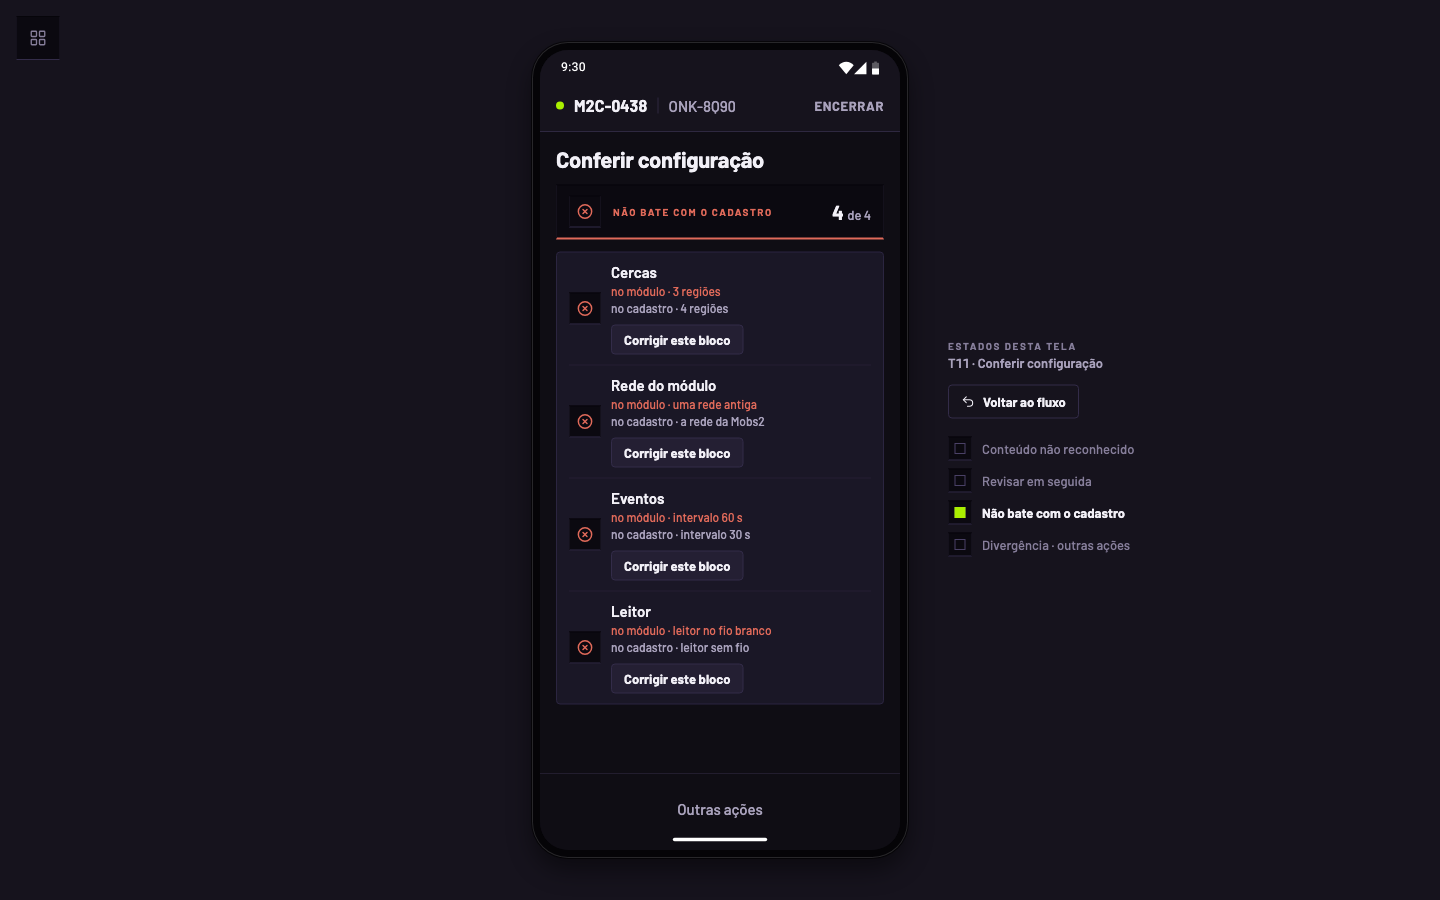
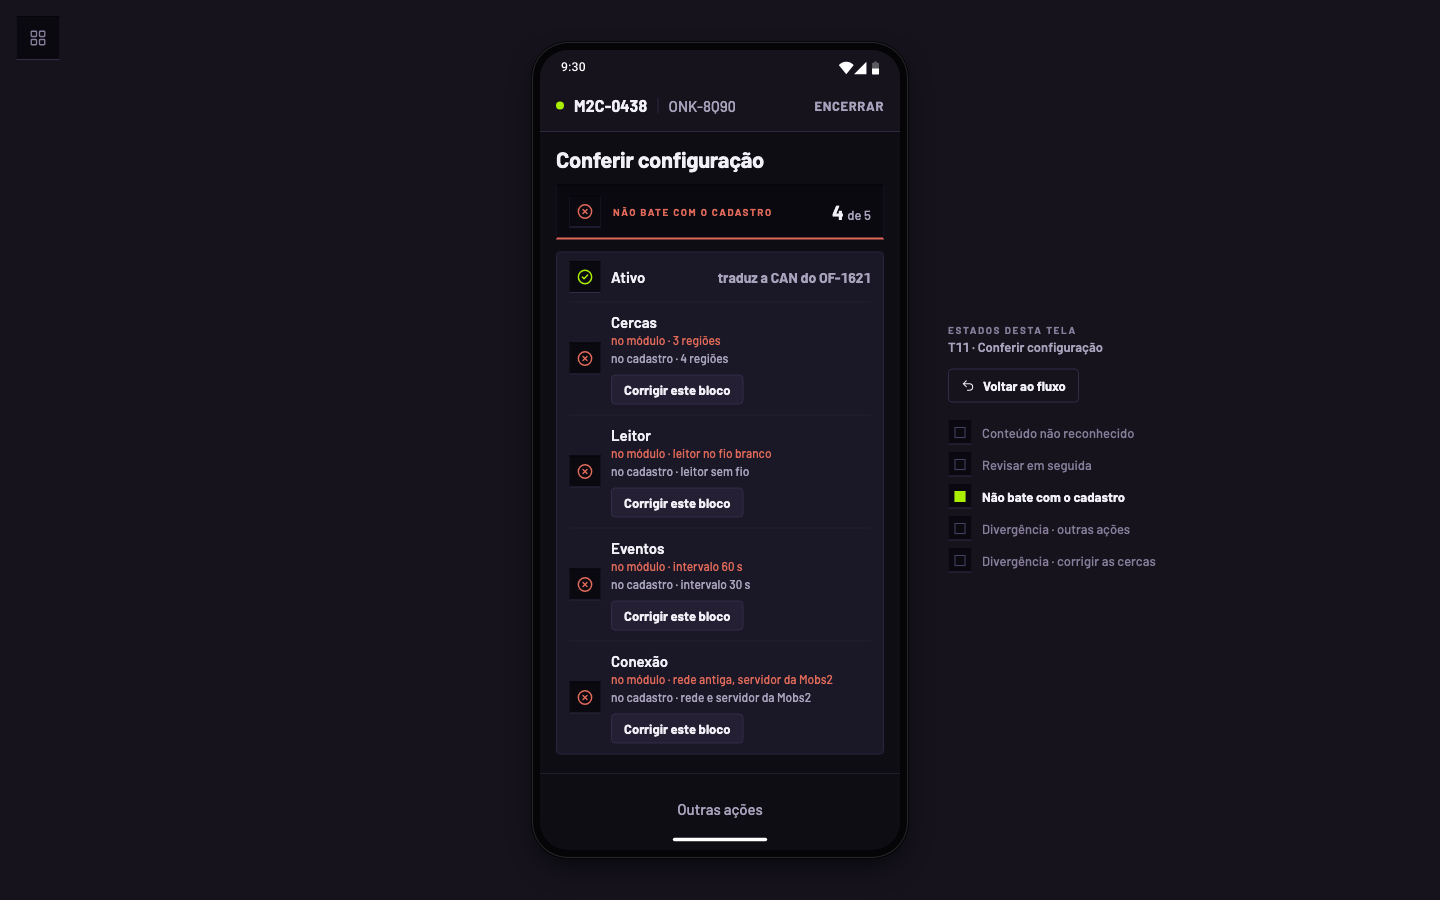
o Sem módulo na coluna do menu

Changed region(s): [[0.4062, 0.28, 0.5625, 0.84], [0.6562, 0.3422, 0.7812, 0.6533], [0.5, 0.28, 0.5938, 0.3111]]

diff --git a/06-prototipo/app/src/telas/T04/index.jsx b/06-prototipo/app/src/telas/T04/index.jsx
@@ -64,6 +64,8 @@ function ajusteDoMomento(momento, unico, est) {
 function sessaoDoEstado(sessao, est) {
   // no print, o 08 e o 14 abrem sobre o menu sem sessão, como a referência desenha (09/10)
   if (EM_QUADRO && (est === REF.envio || est === REF.empresa)) return null
+  // a consulta parada *Sem módulo* da coluna (o diretor, 13/10): o menu antes de conectar, sem sessão
+  if (est === REF.semModulo) return null
   const precisa = est === REF.falha || est === REF.checklist || est === REF.trocar || est === REF.semConexao
   const base = precisa && !sessao?.ativoId ? HEROI : sessao
   return est === REF.falha && M.casos['link-perdido'] ? { ...base, saude: 'falha' } : base

diff --git a/06-prototipo/palco.md b/06-prototipo/palco.md
@@ -27,7 +27,7 @@ A tela aberta aparece marcada. As folhas não entram no painel: são momentos da
 ## A coluna
 
 - lista **os estados e as consultas paradas** da tela aberta · os momentos do fluxo só entram quando o índice declara acesso pela coluna
-- **quem entra na coluna é o campo `coluna` do `indice.json`**: os estados entram por padrão, e `coluna: false` os retira; uma tela ou um momento entra com `coluna: true`. As três folhas de trocar da T04 (08, 09 e 14) ficam fora. A coluna da T04 mostra 4 dos 7
+- **quem entra na coluna é o campo `coluna` do `indice.json`**: os estados entram por padrão, e `coluna: false` os retira; uma tela ou um momento entra com `coluna: true`. As três folhas de trocar da T04 (08, 09 e 14) ficam fora. A coluna da T04 mostra o *Sem módulo* (o menu antes de conectar, sem sessão de configuração: um momento do fluxo que a coluna abre parado, desde 13/10 · pelo link, ele continua vivo) e 5 dos 8 estados
 - **as consultas sem família ficam abaixo dos estados**, na ordem do índice: na T11, *Não bate com o cadastro* reutiliza a `00-tela`; na T09, *Manutenção · escolher o bloco*, *Manutenção · reenviando* e *Manutenção · concluída* reutilizam os momentos `08`, `09` e `10`. Todos abrem o próprio app parado e sem toque, como os estados · a `00` continua sendo referência de tela e os três quadros continuam sendo momentos: o acesso pela coluna não muda os tipos nem as contagens do design
 - **a T11 escolhida no painel abre a conferência normal**, no par do herói (M2C-0417 + RKT-8H42), que chega a *Tudo confere*. A divergência do M2C-0438 + ONK-8Q90 fica na consulta *Não bate com o cadastro*, sem criar caminho alternativo no palco
 - **a mesma regra vale no painel e no endereço simples da T02 e da T10**: as três empresas do técnico e o ônibus sem calibração são as entradas normais. Os quadros de uma empresa (T02/00–01) e do caminhão (T10/00, 01, 05–09) ficam abaixo dos estados, parados. A T11/03, a folha do exemplo divergente, também é consulta parada. A T13/29, *Alimentação · relendo*, entra recuada na família do item reprovado e não liga o relógio.

diff --git a/CHANGELOG.md b/CHANGELOG.md
@@ -1,5 +1,11 @@
 # Registro de mudanças
 
+## 2026-10-13 · o *Sem módulo* na coluna do menu
+
+- **A coluna *Estados desta tela* da T04 abre o *Sem módulo*** (o diretor, 13/10): o menu antes de conectar, sem sessão de configuração, que só se via passando pelo login · entra em primeiro e abre parado, como todo quadro da coluna (o toque faz o *Voltar ao fluxo* piscar, e ele devolve o menu de antes) · pelo link do momento, o menu continua vivo, com o aviso do acesso · no `indice.json`, o `01-momento-sem-modulo` com `coluna` e `rotulo` (sem `consulta`, que é só dos cenários especiais); na T04, a sessão desse quadro é nenhuma.
+- **O teste das consultas** (`testar-consultas.mjs`) aprovado, com os 22 quadros · uma conferência dele estava velha desde o pacote 29: esperava *4 de 4* na consulta da T11, que tem cinco blocos desde então (*4 de 5*) · corrigida.
+- **Desvio nomeado:** as cenas 01 e 00 do palco desenham a coluna do menu com os 5 estados de antes · com o *Sem módulo*, a peça da coluna passa de 0,89% a 3,17% (cena 01) e de 2,4–2,7% a 4,3–5,1% (cena 00), até o arquiteto redesenhá-las.
+
 ## 2026-10-13 · pacote 33: o tracejado do vazio
 
 - **O pacote do arquiteto:** 62 arquivos de referência (os pares de 30 telas e das folhas 4 e 8) entraram inteiros. O `tokens.css`, o `tokens.json`, o catálogo e o CHANGELOG vieram de cópias antigas: entraram só o comentário novo do `--borda-neutra` e a linha *tracejado do vazio* no catálogo. A entrada do CHANGELOG do pacote está resumida aqui.

diff --git a/08-para-o-dev/testes-prontos.md b/08-para-o-dev/testes-prontos.md
@@ -19,7 +19,7 @@ Existem **45 arquivos** em [scripts/caminhos](../06-prototipo/app/scripts/caminh
 | `conferencia.mjs` | **100 passos aprovados** naquele ciclo: fechar a folha por quatro caminhos, registrar, reenviar e inspecionar as consultas bloqueadas. |
 | `mov-t11.mjs`, `mov-t10.mjs` | **132 e 78 passos aprovados**, respectivamente, naquele ciclo. |
 | `familias.mjs` | **28 passos aprovados** naquele ciclo, conferindo a organização e os acessos da coluna. |
-| [testar-consultas.mjs](../06-prototipo/app/scripts/testar-consultas.mjs) | Aprova 15 consultas pela coluna e URL, inércia após toque/Esc/tempo, cinco retornos e três entradas normais do painel. |
+| [testar-consultas.mjs](../06-prototipo/app/scripts/testar-consultas.mjs) | Aprova as consultas paradas pela coluna e URL (22 quadros), inércia após toque/Esc/tempo, cinco retornos e três entradas normais do painel. |
 | `portas.mjs`, `abortada.mjs`, `lembrar.mjs`, `recuperar.mjs`, `mov-<tela>.mjs` e os demais | Cenários reutilizáveis, com resultados de suas rodadas nos gates. Não têm aceite coletivo na versão atual apenas por estarem nesta pasta. |
 
 A evidência dessa rodada está no [gate de consultas paradas](../06-prototipo/para-o-arquiteto/gate-consultas-paradas.md). A documentação e o retorno do login têm a validação registrada no [gate da recuperação](../06-prototipo/para-o-arquiteto/gate-documentacao-atual.md).

diff --git a/02-telas/T04-menu/tela.md b/02-telas/T04-menu/tela.md
@@ -158,3 +158,7 @@ Os textos exatos de cada referência estão em `textos.md`. Copie de lá — nun
 - **o avatar *RV* preenchido**, com o fundo e a borda de cartão, nas 17 telas · no claro, ele fica branco sobre a faixa lilás
 - **a barra do prazo do acesso com as laterais**, como a régua: as pontas marcam o 0 e o 7
 - **no protótipo:** a linha é a peça `Interruptor` (`src/ds/entrada/Interruptor.jsx`), e a escolha mora em `src/estado/tema.js`, guardada no armazenamento do navegador (`mobs2-configurador.tema`) · ligar põe `data-tema="claro"` na raiz do app (`App.jsx`); desligar tira · como o app lê a escolha ao abrir, o login já nasce no tema escolhido · as referências desta pasta continuam no escuro: o claro nasce delas, pelos tokens (R-17)
+
+## No palco · o *Sem módulo* na coluna (13/10)
+
+- **a coluna *Estados desta tela* do menu abre também o *Sem módulo*** (`01-momento-sem-modulo`): o menu antes de conectar, sem sessão de configuração, parado como os outros quadros da coluna · é um momento do fluxo, e entra na coluna pelo `coluna: true` do `indice.json`, em primeiro · pelo link (`?tela=T04&momento=01-momento-sem-modulo`) ele continua vivo, com o aviso do acesso na primeira chegada · no protótipo, a sessão do quadro da coluna é nenhuma (`sessaoDoEstado`)

diff --git a/06-prototipo/app/README.md b/06-prototipo/app/README.md
@@ -29,7 +29,7 @@ node scripts/caminho.mjs familias
 node scripts/testar-consultas.mjs
 ```
 
-O último script verifica os 15 exemplos especiais parados, os retornos ao percurso guardado e as três entradas normais do painel. Ele usa o Chrome do fotógrafo na escala 2.
+O último script verifica os exemplos especiais parados (22 quadros), os retornos ao percurso guardado e as três entradas normais do painel. Ele usa o Chrome do fotógrafo na escala 2.
 
 Há 45 roteiros em `scripts/caminhos`. Alguns roteiros históricos ainda usam acessos sintéticos que foram substituídos por consultas paradas. Antes de usar `node scripts/caminho.mjs todos` como aceite, leia [testes-prontos.md](../../08-para-o-dev/testes-prontos.md); a última rodada não executou o lote inteiro.
 
